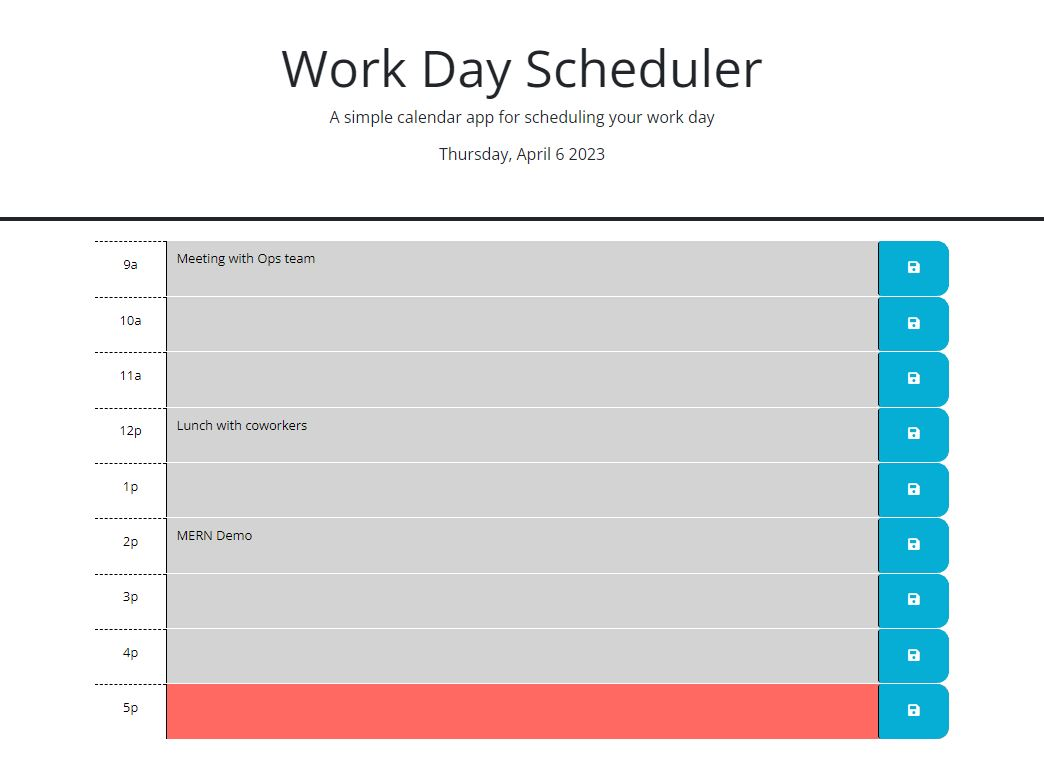
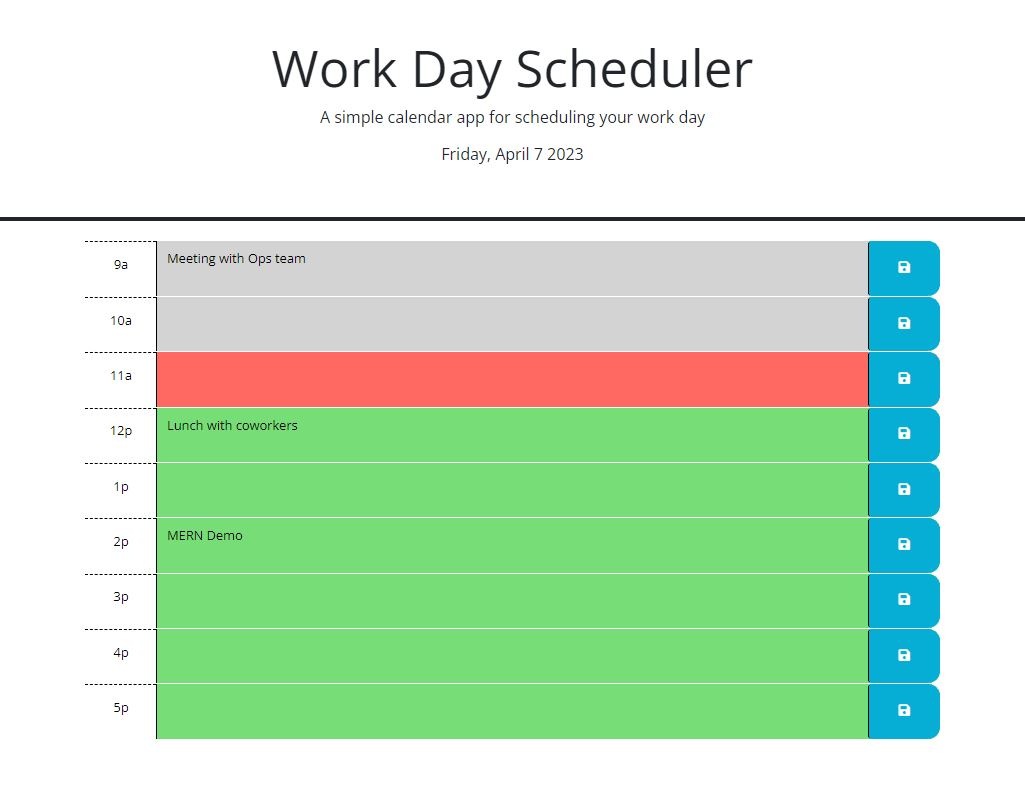
Updating HTML title from React App to Peter Krysinski, updating the workday scheduler app image in the portfolio to show hours ahead of us as well, updating content in AboutMe sections and Portfolio sections to include the 6th app

diff --git a/src/components/Portfolio.js b/src/components/Portfolio.js
@@ -62,11 +62,11 @@ function Portfolio() {
         },
         {
             id: 6,
-            title: "Project 6",
-            desc: "",
-            website: "",
-            github: "",
-            img: ""
+            title: "The Mealer Dealer",
+            desc: "A meal prep app that allows users to input various criteria, which has the app select a meal based on the criteria. When a user logs in they are directed to the homepage. Then they can click the create a meal button or the view all meals button. The create a meal button takes them to the build your meal page, and they enter the following criteria: Total Time, Quanity of Meals, Quantity of People and Choose a Protein. When they submit the form, they will see all the results that match that their input. When they click on the recipe, they will then find ingredients and instructions for that meal.",
+            website: "https://the-mealer-dealer-production.up.railway.app/",
+            github: "https://github.com/Pkrysinski/The-Mealer-Dealer",
+            img: "mealer-dealer-img.JPG"
         }
     ]
 

diff --git a/src/components/AboutMe.js b/src/components/AboutMe.js
@@ -8,7 +8,13 @@ function AboutMe() {
                 Hi, my name is Peter!
             </h1>
             <p>
-                I'm a Michigan transplant who came to SLC 6 years ago, and this is my app!
+                I'm a Michigan transplant who came to SLC 6 years ago, and this is my portfolio built with React.js!
+            </p>
+            <p>
+                Outdoor interests:  skiing, snowboarding, disc golf, mtn biking, hiking, camping, travel, restaurants/breweries, any new adventure!  Also enjoy doing maintenance on my car, going for a canyon drive, and a simple neighborhood walk.
+            </p>
+            <p>
+                Indoor interests: Cooking, pottery/ceramics and making things for friends, spending time with my family/pets, video games, music, and of course...coding!
             </p>
         </div>
     )

diff --git a/public/index.html b/public/index.html
@@ -24,7 +24,7 @@
       work correctly both with client-side routing and a non-root public URL.
       Learn how to configure a non-root public URL by running `npm run build`.
     -->
-    <title>React App</title>
+    <title>Peter Krysinski</title>
   </head>
   <body>
     <noscript>You need to enable JavaScript to run this app.</noscript>
